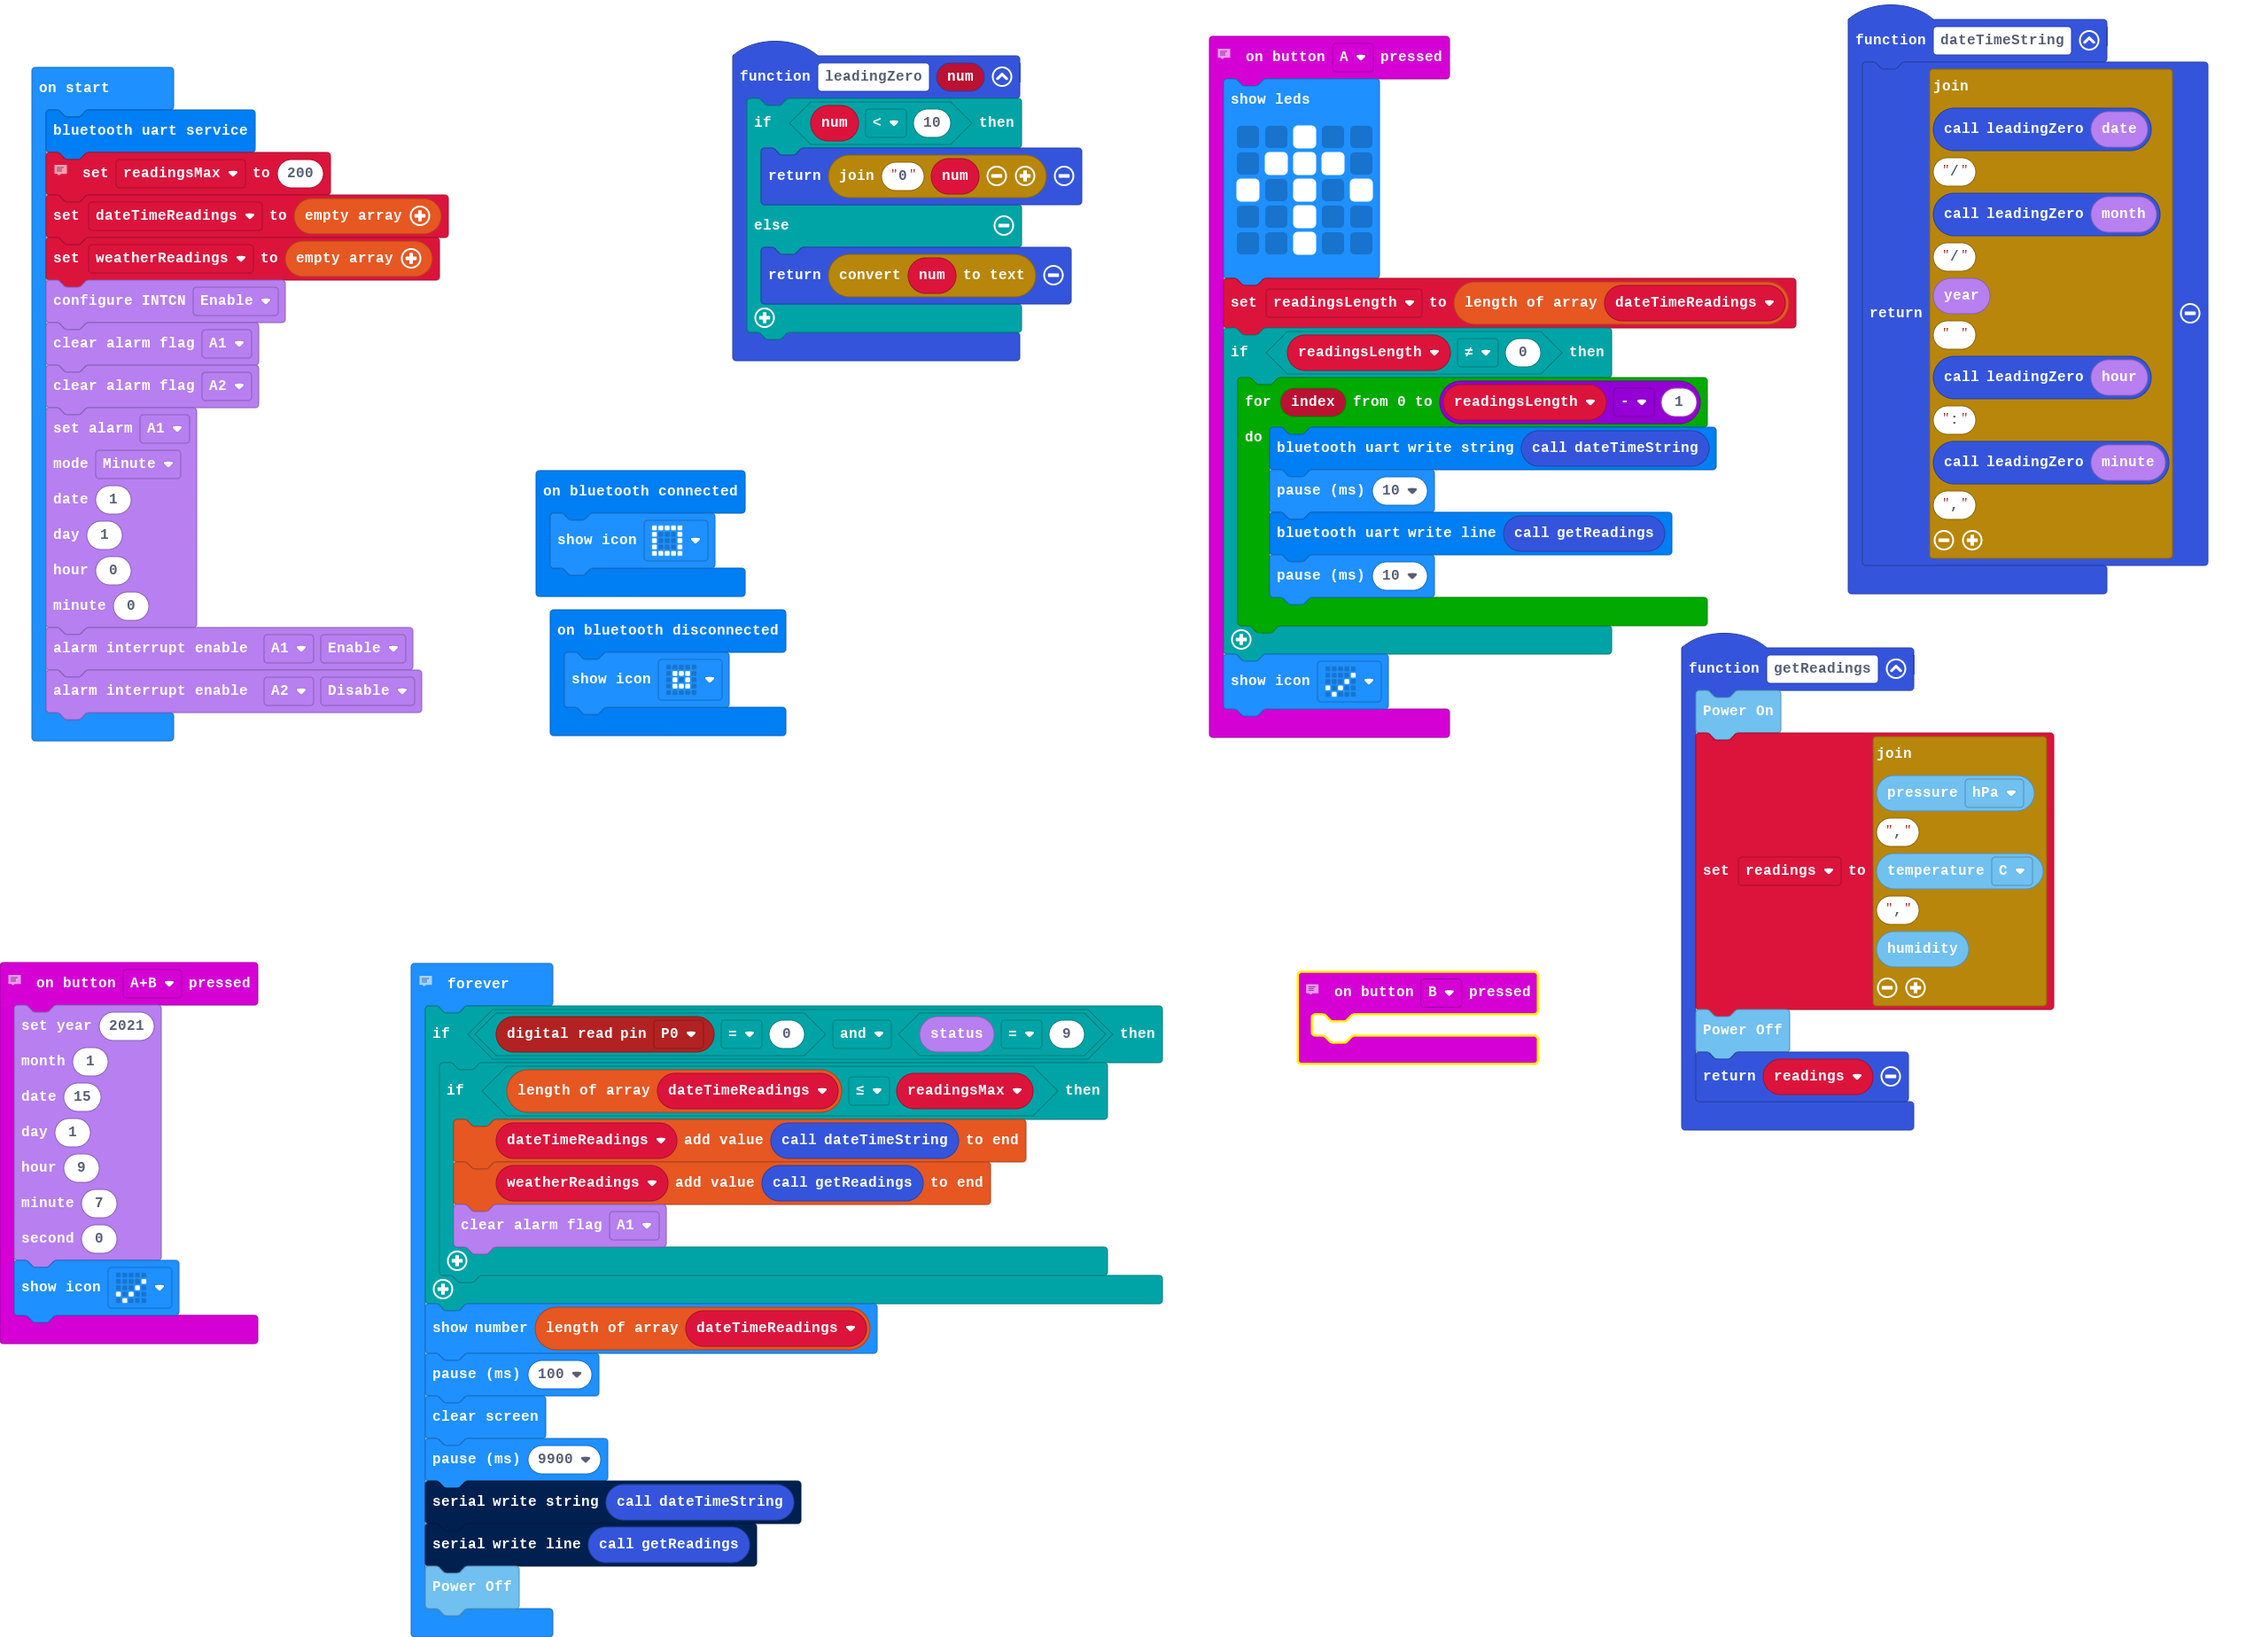
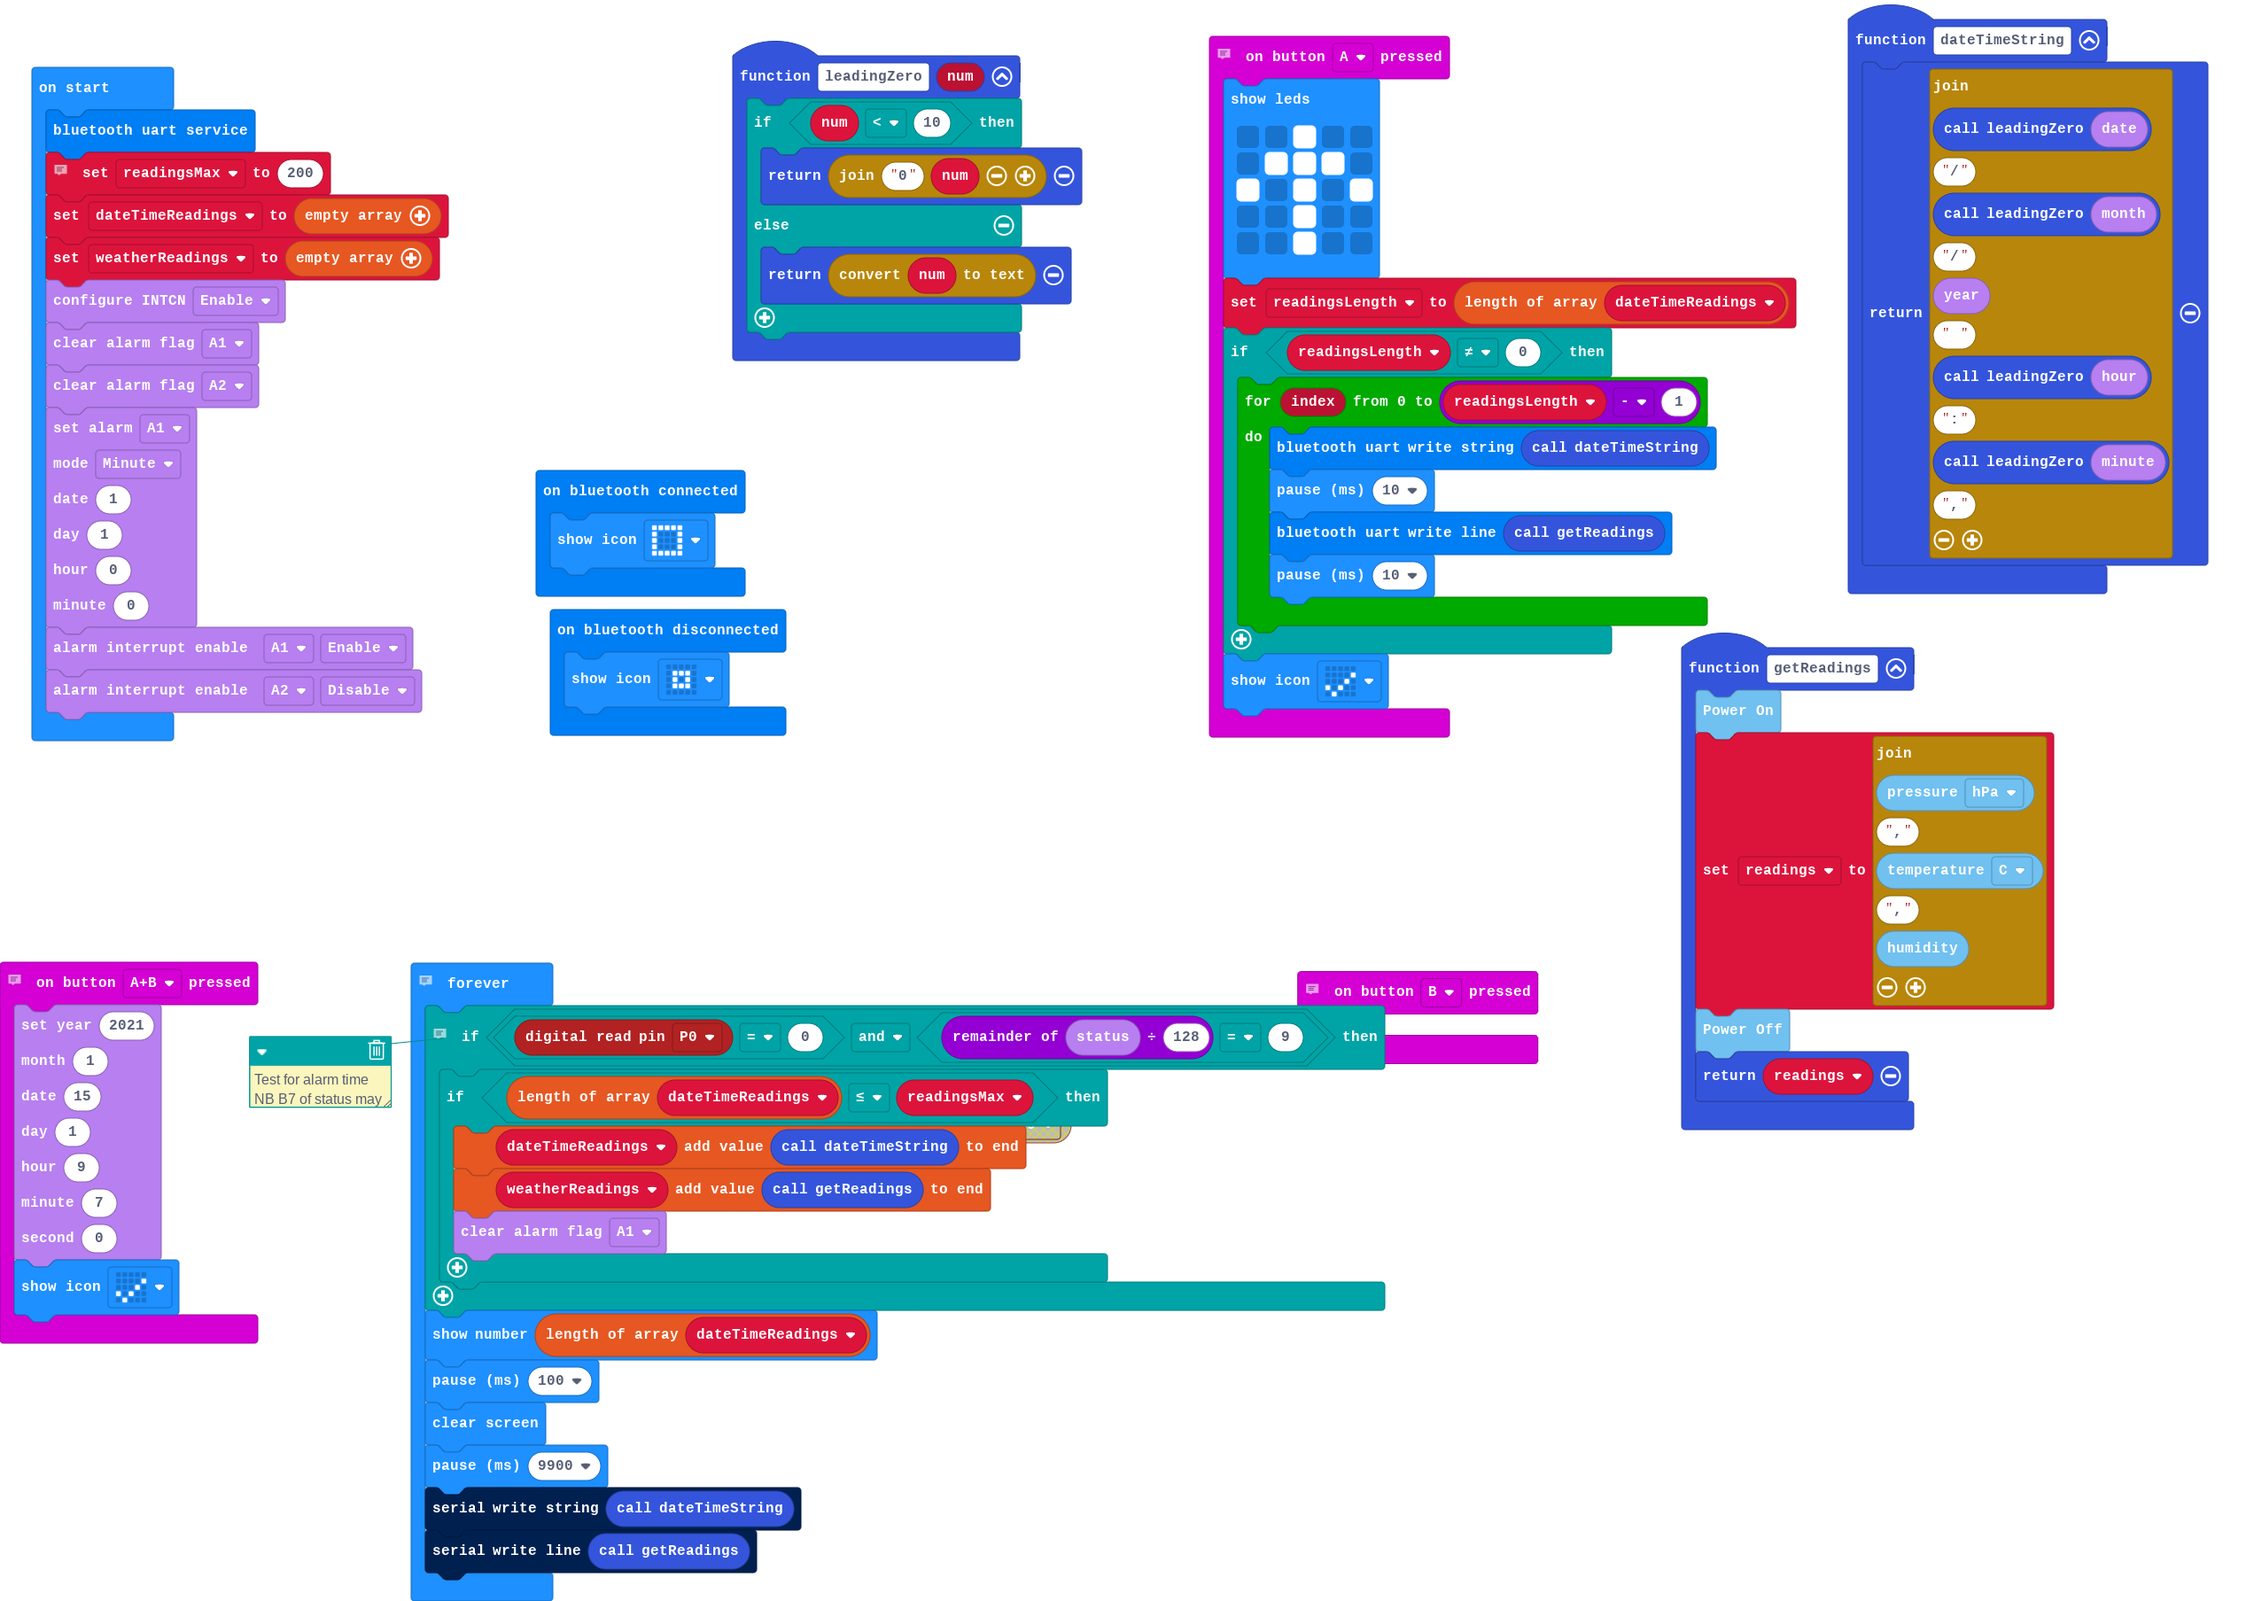
masked out B7 of DS3231 status when testing alarm

diff --git a/main.ts b/main.ts
@@ -80,7 +80,8 @@ DS3231.disableAlarm(alarmNum.A1, interruptEnable.Enable)
 DS3231.disableAlarm(alarmNum.A2, interruptEnable.Disable)
 // Poll pin P0 to see if alarm is set
 basic.forever(function () {
-    if (pins.digitalReadPin(DigitalPin.P0) == 0 && DS3231.status() == 9) {
+    // Test for alarm time NB B7 of status may be 1 if oscillator stopped
+    if (pins.digitalReadPin(DigitalPin.P0) == 0 && DS3231.status() % 128 == 9) {
         if (dateTimeReadings.length <= readingsMax) {
             dateTimeReadings.push(dateTimeString())
             weatherReadings.push(getReadings())
@@ -93,5 +94,4 @@ basic.forever(function () {
     basic.pause(9900)
     serial.writeString("" + (dateTimeString()))
     serial.writeLine("" + (getReadings()))
-    BME280.PowerOff()
 })
